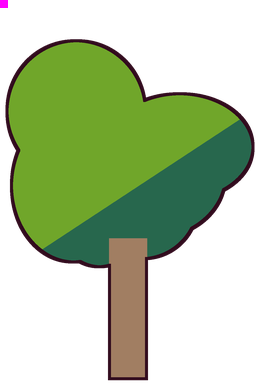
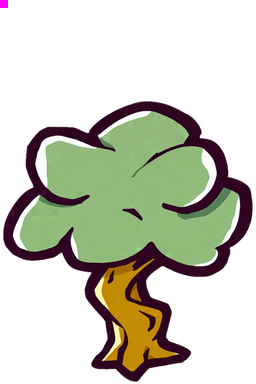
E1-9: трава и олива с Мака, проба стиля для деревьев (WIP)
- TEMP_ground_grass и TEMP_tree_olive_a — картинки Мака вместо скриптовых
- art_stage1.py: свой стиль предмета (styles), ключ --front для пробы промпта
- e19.json: стиль «tree» и проба оливы

diff --git a/tools/art_stage1.py b/tools/art_stage1.py
@@ -62,7 +62,8 @@ def load_set():
 
 
 def build_prompt(data, s):
-    return f"{data['style']}. {s['prompt']}. {data['camera'][s['kind']]}"
+    style = data["styles"][s["style"]] if s.get("style") else data["style"]   # свой стиль предмета — по имени
+    return f"{style}. {s['prompt']}. {data['camera'][s['kind']]}"
 
 
 def ledger_path(raw):
@@ -84,7 +85,7 @@ def queue_len():
     return len(q.get("queue_running") or []) + len(q.get("queue_pending") or [])
 
 
-def cmd_queue(keys, raw, force):
+def cmd_queue(keys, raw, force, front=False):
     data, subj = load_set()
     led = load_ledger(raw)
     for k in keys:
@@ -100,7 +101,10 @@ def cmd_queue(keys, raw, force):
         s = subj[k]
         prompt = build_prompt(data, s)
         g = graph(prompt, data["negative"][s["kind"]], s["w"], s["h"], s["seed"], f"orpheus/e19_{k}")
-        pid = call("/prompt", {"prompt": g, "client_id": str(uuid.uuid4())})["prompt_id"]
+        body = {"prompt": g, "client_id": str(uuid.uuid4())}
+        if front:   # проба промпта — в начало своей же очереди
+            body["front"] = True
+        pid = call("/prompt", body)["prompt_id"]
         led[k] = {"pid": pid, "status": "queued", "seed": s["seed"], "w": s["w"], "h": s["h"], "prompt": prompt,
                   "queued": time.strftime("%Y-%m-%d %H:%M:%S")}
         save_ledger(raw, led)
@@ -142,6 +146,7 @@ def main():
     ap.add_argument("keys", nargs="*")
     ap.add_argument("--raw", default=str(ROOT / "build" / "art_e19" / "raw"))
     ap.add_argument("--force", action="store_true", help="перезаказать, даже если картинка уже есть")
+    ap.add_argument("--front", action="store_true", help="в начало очереди (проба промпта)")
     a = ap.parse_args()
     raw = Path(a.raw)
     try:
@@ -150,7 +155,7 @@ def main():
             for k, s in subj.items():
                 print(f"{k:<22} {s['kind']:<7} {s['w']}x{s['h']} seed {s['seed']}")
         elif a.cmd == "queue":
-            cmd_queue(a.keys, raw, a.force)
+            cmd_queue(a.keys, raw, a.force, a.front)
         elif a.cmd == "collect":
             cmd_collect(raw)
         else:  # wait: ждать, пока всё поставленное не скачается (для фоновой команды)
